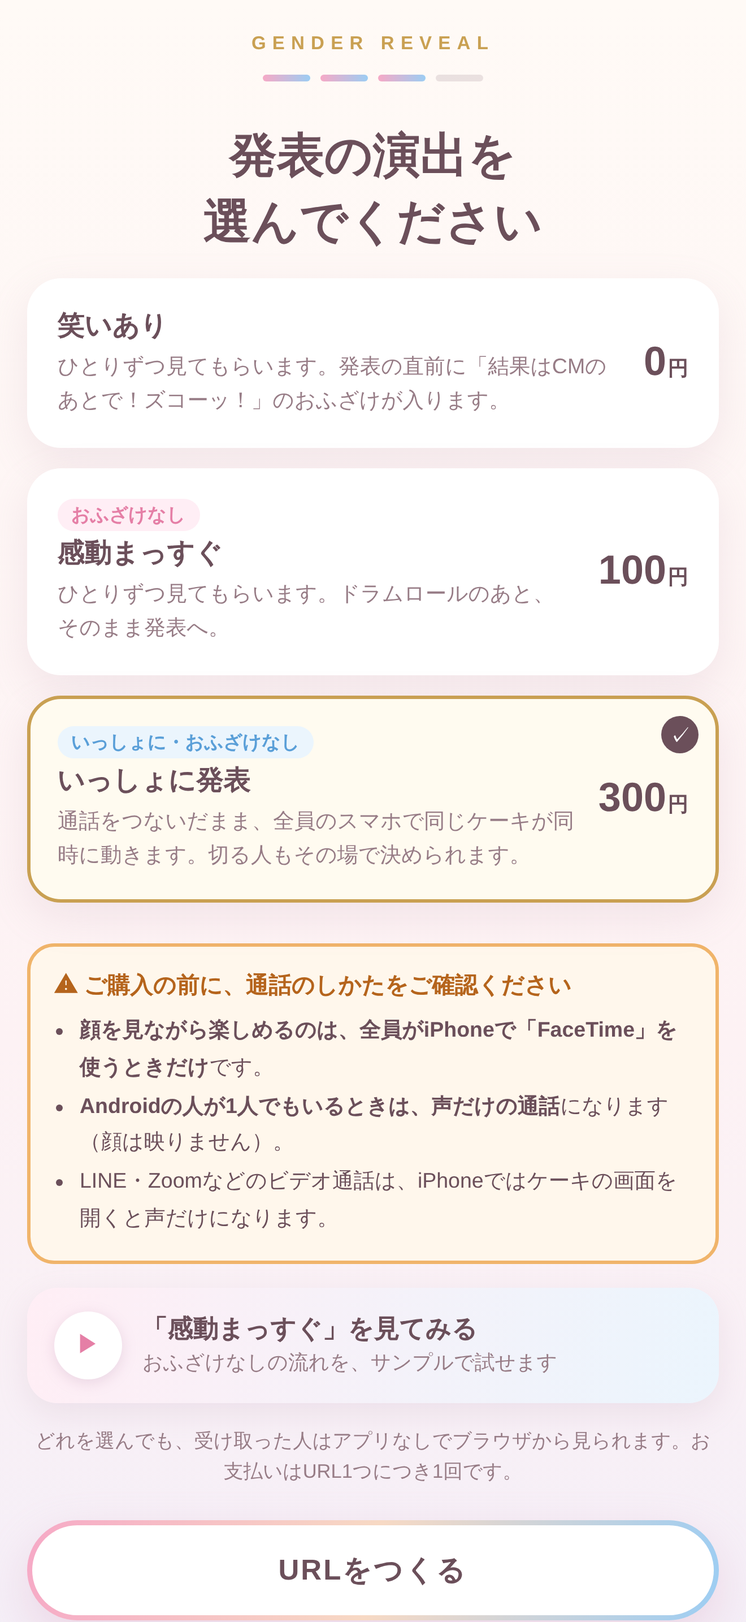
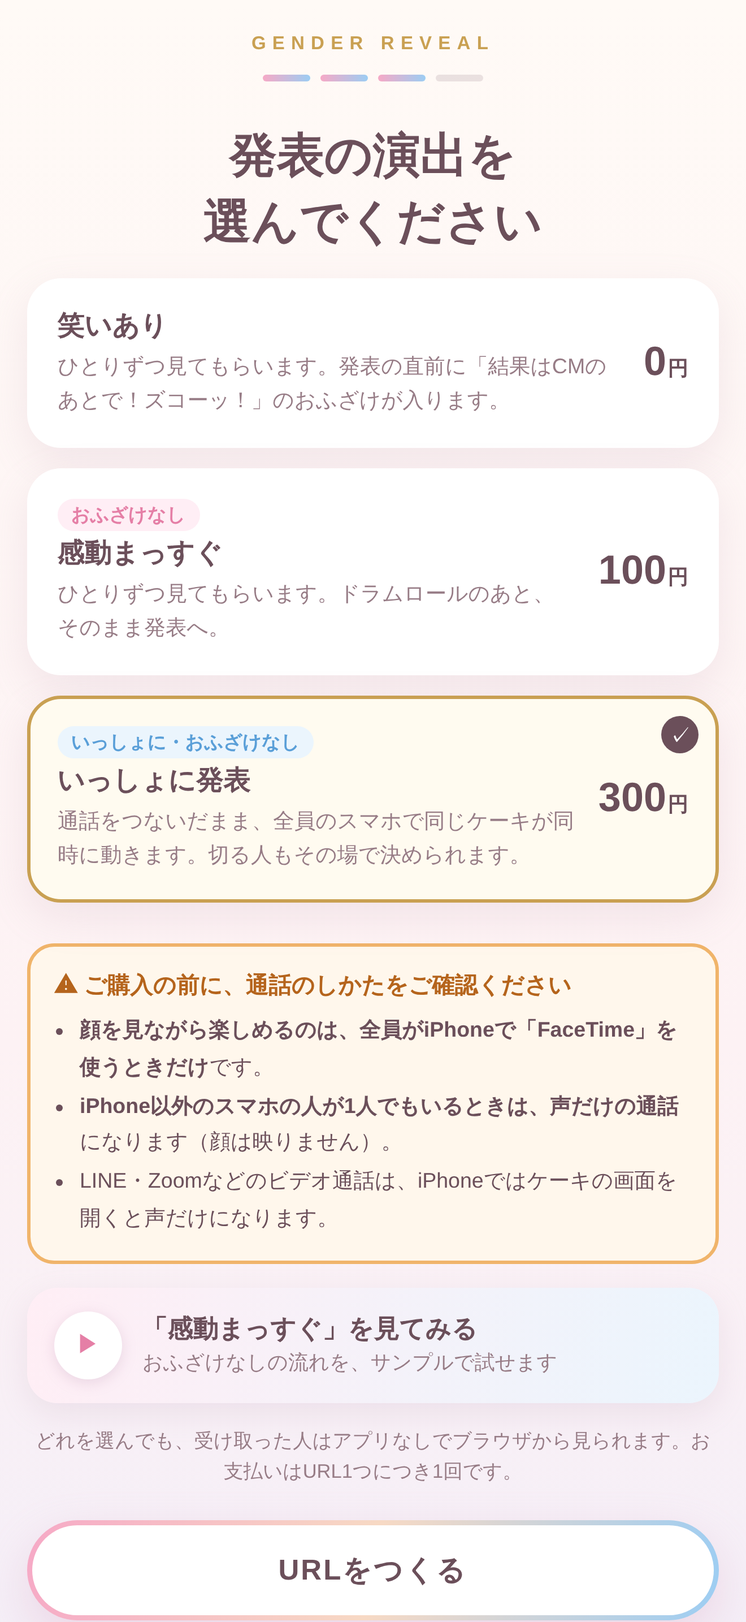
審査対応：アプリ内のAndroidの記述をiPhone以外のスマホに変更

diff --git a/site/r/index.html b/site/r/index.html
@@ -424,7 +424,7 @@ button:focus-visible,summary:focus-visible{outline:3px solid var(--gold-deep);ou
       <h1 class="intro-title" id="lbTitle" style="font-size:clamp(22px,6.4vw,30px)">いっしょに<br>発表の瞬間を楽しみましょう</h1>
       <p class="lead" id="lbTag">離れていても、同じ瞬間に。</p>
       <div id="lbJoin" style="display:flex;flex-direction:column;gap:12px">
-        <div class="lb-call" id="lbCall"><b>📞 通話はつながっていますか？</b><br>パパ・ママと通話をつないだまま、この画面を開いてください。<br><small>顔を見ながらできるのは、全員iPhoneでFaceTimeのときだけ。Androidの人がいるときは声だけの通話になります。</small> <button type="button" class="gd-link" data-guide>通話のしかたを見る</button></div>
+        <div class="lb-call" id="lbCall"><b>📞 通話はつながっていますか？</b><br>パパ・ママと通話をつないだまま、この画面を開いてください。<br><small>顔を見ながらできるのは、全員iPhoneでFaceTimeのときだけ。iPhone以外のスマホの人がいるときは声だけの通話になります。</small> <button type="button" class="gd-link" data-guide>通話のしかたを見る</button></div>
         <p class="lb-label">あなたの呼び名</p>
         <input id="lbName" class="lb-input" maxlength="12" placeholder="例：おばあちゃん" autocomplete="off">
         <p class="note">この名前は、みんなの画面に表示されます。会員登録は必要ありません。</p>
@@ -454,9 +454,9 @@ button:focus-visible,summary:focus-visible{outline:3px solid var(--gold-deep);ou
       <p class="eyebrow" style="align-self:center">GENDER REVEAL</p>
       <h2>通話をつないでから<br>はじめましょう</h2>
       <p class="gd-lead">顔を見ながら、みんなで同じ瞬間に「わぁ！」を。<br>まず、通話する人のスマホを選んでください。</p>
-      <div class="gd-tabs"><button type="button" data-mix="all" aria-pressed="true">みんなiPhone</button><button type="button" data-mix="mix" aria-pressed="false">Androidの人もいる</button></div><div class="gd-rec" data-c="all"><b>顔を見ながらできるのは FaceTime だけ</b>ケーキの画面を開いても、相手の顔は小さな窓に映り、自分の顔も相手に映ったままです。<em>⚠ LINEのビデオ通話は、iPhoneではケーキの画面にうつると顔が映らなくなり、声だけの通話になります。</em></div><div class="gd-rec" data-c="mix" hidden><b>iPhoneとAndroidは 声だけの通話になります</b>AndroidにはFaceTimeのアプリがないので、LINEなどの音声通話（スピーカーON）でつなぎます。顔は映りません。<em>⚠ iPhoneの人がケーキの画面を開くと、iPhoneの人のカメラは止まり、声だけになります。おたがいの顔は見えなくなりますが、声はつながったまま。「せーの！」で一緒に楽しめます。</em></div>
+      <div class="gd-tabs"><button type="button" data-mix="all" aria-pressed="true">みんなiPhone</button><button type="button" data-mix="mix" aria-pressed="false">iPhone以外の人もいる</button></div><div class="gd-rec" data-c="all"><b>顔を見ながらできるのは FaceTime だけ</b>ケーキの画面を開いても、相手の顔は小さな窓に映り、自分の顔も相手に映ったままです。<em>⚠ LINEのビデオ通話は、iPhoneではケーキの画面にうつると顔が映らなくなり、声だけの通話になります。</em></div><div class="gd-rec" data-c="mix" hidden><b>iPhone以外のスマホが混ざると 声だけの通話になります</b>FaceTimeはiPhone同士でしか使えないので、LINEなどの音声通話（スピーカーON）でつなぎます。顔は映りません。<em>⚠ iPhoneの人がケーキの画面を開くと、iPhoneの人のカメラは止まり、声だけになります。おたがいの顔は見えなくなりますが、声はつながったまま。「せーの！」で一緒に楽しめます。</em></div>
       <div class="gd-step"><span class="gd-n">1</span><div><b>先に、通話をつなぐ</b><small data-c="all">FaceTimeで、みんなとビデオ通話をつなぎます。グループFaceTimeなら何人でもつなげます。</small><small data-c="mix" hidden>LINEで、みんなと通話をつなぎます。スピーカーをONにしておくと、声がよく聞こえます。</small></div><svg viewBox="0 0 74 74" aria-hidden="true"><rect x="18" y="4" width="38" height="66" rx="8" fill="#2b2b33"/><rect x="21" y="9" width="32" height="56" rx="5" fill="#cfe3f5"/><circle cx="37" cy="27" r="7" fill="#f5dcc8"/><path d="M25 46c2-8 22-8 24 0" fill="#7a8fae"/><circle cx="31" cy="57" r="4" fill="#ff5a5a"/><circle cx="43" cy="57" r="4" fill="#06c755"/></svg></div>
-      <div class="gd-step"><span class="gd-n">2</span><div><b>ホーム画面にもどる</b><small data-c="all">画面の下から上へスワイプします。通話はそのまま続き、相手の顔が小さな窓で表示されます。</small><small data-c="mix" hidden><b class="gd-who">iPhoneの人</b>画面の下から上へスワイプ。通話は声だけで続きます。<b class="gd-who">Androidの人</b>ホームボタン（または下から上へスワイプ）でホーム画面へ。通話は小さな窓で続きます（iPhoneの人の顔は映りません）。</small></div><svg viewBox="0 0 74 74" aria-hidden="true"><rect x="18" y="4" width="38" height="66" rx="8" fill="#2b2b33"/><rect x="21" y="9" width="32" height="56" rx="5" fill="#f4eef6"/><rect x="40" y="13" width="11" height="15" rx="3" fill="#cfe3f5" stroke="#fff" stroke-width="1.5"/><path d="M37 60V40" stroke="#e57fa6" stroke-width="3.5" stroke-linecap="round"/><path d="M31 46l6-7 6 7" fill="none" stroke="#e57fa6" stroke-width="3.5" stroke-linecap="round" stroke-linejoin="round"/></svg></div>
+      <div class="gd-step"><span class="gd-n">2</span><div><b>ホーム画面にもどる</b><small data-c="all">画面の下から上へスワイプします。通話はそのまま続き、相手の顔が小さな窓で表示されます。</small><small data-c="mix" hidden><b class="gd-who">iPhoneの人</b>画面の下から上へスワイプ。通話は声だけで続きます。<b class="gd-who">iPhone以外の人</b>ホームボタン（または下から上へスワイプ）でホーム画面へ。通話は小さな窓で続きます（iPhoneの人の顔は映りません）。</small></div><svg viewBox="0 0 74 74" aria-hidden="true"><rect x="18" y="4" width="38" height="66" rx="8" fill="#2b2b33"/><rect x="21" y="9" width="32" height="56" rx="5" fill="#f4eef6"/><rect x="40" y="13" width="11" height="15" rx="3" fill="#cfe3f5" stroke="#fff" stroke-width="1.5"/><path d="M37 60V40" stroke="#e57fa6" stroke-width="3.5" stroke-linecap="round"/><path d="M31 46l6-7 6 7" fill="none" stroke="#e57fa6" stroke-width="3.5" stroke-linecap="round" stroke-linejoin="round"/></svg></div>
       <div class="gd-step"><span class="gd-n">3</span><div><b>届いたURLを開く</b><small>家族から届いたURLを開くと、ケーキの画面が表示されます。</small></div><svg viewBox="0 0 74 74" aria-hidden="true"><rect x="18" y="4" width="38" height="66" rx="8" fill="#2b2b33"/><rect x="21" y="9" width="32" height="56" rx="5" fill="#fdf2f4"/><ellipse cx="37" cy="50" rx="11" ry="3.5" fill="#f3e3c4"/><rect x="28" y="38" width="18" height="12" rx="2" fill="#fff" stroke="#efd9e2"/><rect x="31" y="31" width="12" height="8" rx="2" fill="#fff" stroke="#efd9e2"/><rect x="40" y="12" width="11" height="15" rx="3" fill="#cfe3f5" stroke="#fff" stroke-width="1.5"/><circle cx="45.5" cy="18" r="2.5" fill="#f5dcc8"/></svg></div>
       <div class="gd-tip" data-c="all"><b>💡 小さな窓にならないときは</b>「くわしい設定」でFaceTimeの設定を確認してください。音声通話にしてスピーカーをONにするだけでも、声を聞きながら一緒に楽しめます。</div><div class="gd-tip" data-c="mix" hidden><b>💡 顔も見ながら楽しみたいときは</b>iPhoneの人は、通話をiPadやパソコンなど別の端末でつなぎ、ケーキはスマホで開くと、顔を見ながら一緒に楽しめます。</div>
       <p class="gd-lead">うまくいかないとき → <button type="button" class="gd-link" id="gdMore">くわしい設定を見る</button></p>
@@ -464,7 +464,7 @@ button:focus-visible,summary:focus-visible{outline:3px solid var(--gold-deep);ou
     </div>
     <div class="gd-in" id="gdDetail" hidden>
       <p class="eyebrow" style="align-self:center">GENDER REVEAL</p>
-      <h2>通話の<br>くわしい設定</h2><div class="gd-tabs"><button type="button" data-mix="all" aria-pressed="true">みんなiPhone</button><button type="button" data-mix="mix" aria-pressed="false">Androidの人もいる</button></div><div class="gd-step wide" data-c="all"><div><b>FaceTimeを小さな窓にする</b><small>iPhoneの「設定」→「一般」→「ピクチャ・イン・ピクチャ」→「自動的に開始」をONにします。通話中にホーム画面へ戻ると、通話画面が小さな窓で表示され、自分の顔も相手に映ったままです。</small></div></div><div class="gd-step wide" data-c="all"><div><b>みんなでFaceTimeをつなぐ</b><small>FaceTimeアプリで「新規FaceTime」を押し、家族を追加して「FaceTime」（ビデオ）で発信します。</small></div></div><div class="gd-step wide" data-c="all"><div><b>LINEを使う場合</b><small>iPhoneのLINEは、ほかの画面にうつると顔が映らず、声だけの通話になります。LINEの「縮小」ボタンの小さな窓は、LINEの中でしか表示されません。顔を見ながら楽しみたいときは、FaceTimeを使ってください。</small></div></div><div class="gd-step wide" data-c="mix" hidden><div><b>LINEでみんなとつなぐ</b><small>家族のグループトークを開き、右上の電話マークから「音声通話」または「ビデオ通話」を始めます。</small></div></div><div class="gd-step wide" data-c="mix" hidden><div><b>Androidの人：小さな窓の設定</b><small>「設定」→「アプリ」→「LINE」→「ピクチャー イン ピクチャー」を許可にします（機種によって名前が少しちがいます）。ホーム画面に戻ると、通話が小さな窓で表示されます。</small></div></div><div class="gd-step wide" data-c="mix" hidden><div><b>iPhoneの人：声だけになります</b><small>ケーキの画面を開くと、iPhoneのLINEはカメラが止まり、声だけの通話になります。これはiPhoneのLINEのしくみで、設定では変えられません。顔も見たいときは、通話を別の端末（iPadやパソコンなど）でつないでください。</small></div></div><div class="gd-step wide"><div><b>音が小さいとき</b><small>通話をスピーカーにして、音量を上げてください。iPhoneはマナーモードもOFFにしてください。</small></div></div><div class="gd-tip"><b>💡 それでもうまくいかないとき</b>家族のスマホは通話用、自分のスマホはケーキ用にして、2台で楽しむ方法もおすすめです。</div>
+      <h2>通話の<br>くわしい設定</h2><div class="gd-tabs"><button type="button" data-mix="all" aria-pressed="true">みんなiPhone</button><button type="button" data-mix="mix" aria-pressed="false">iPhone以外の人もいる</button></div><div class="gd-step wide" data-c="all"><div><b>FaceTimeを小さな窓にする</b><small>iPhoneの「設定」→「一般」→「ピクチャ・イン・ピクチャ」→「自動的に開始」をONにします。通話中にホーム画面へ戻ると、通話画面が小さな窓で表示され、自分の顔も相手に映ったままです。</small></div></div><div class="gd-step wide" data-c="all"><div><b>みんなでFaceTimeをつなぐ</b><small>FaceTimeアプリで「新規FaceTime」を押し、家族を追加して「FaceTime」（ビデオ）で発信します。</small></div></div><div class="gd-step wide" data-c="all"><div><b>LINEを使う場合</b><small>iPhoneのLINEは、ほかの画面にうつると顔が映らず、声だけの通話になります。LINEの「縮小」ボタンの小さな窓は、LINEの中でしか表示されません。顔を見ながら楽しみたいときは、FaceTimeを使ってください。</small></div></div><div class="gd-step wide" data-c="mix" hidden><div><b>LINEでみんなとつなぐ</b><small>家族のグループトークを開き、右上の電話マークから「音声通話」または「ビデオ通話」を始めます。</small></div></div><div class="gd-step wide" data-c="mix" hidden><div><b>iPhone以外のスマホの人：小さな窓の設定</b><small>「設定」→「アプリ」→「LINE」→「ピクチャー イン ピクチャー」を許可にします（機種によって名前が少しちがいます）。ホーム画面に戻ると、通話が小さな窓で表示されます。</small></div></div><div class="gd-step wide" data-c="mix" hidden><div><b>iPhoneの人：声だけになります</b><small>ケーキの画面を開くと、iPhoneのLINEはカメラが止まり、声だけの通話になります。これはiPhoneのLINEのしくみで、設定では変えられません。顔も見たいときは、通話を別の端末（iPadやパソコンなど）でつないでください。</small></div></div><div class="gd-step wide"><div><b>音が小さいとき</b><small>通話をスピーカーにして、音量を上げてください。iPhoneはマナーモードもOFFにしてください。</small></div></div><div class="gd-tip"><b>💡 それでもうまくいかないとき</b>家族のスマホは通話用、自分のスマホはケーキ用にして、2台で楽しむ方法もおすすめです。</div>
       <button type="button" class="gd-close" data-gdback>もどる</button>
     </div>
   </div>
@@ -2209,7 +2209,7 @@ const TG = (() => {
   }
   if (on && TOKEN) {
     $('#intro').hidden = true; $('#lobby').hidden = false;
-    if (st.host) { $('#lbTitle').innerHTML = 'もうすぐ、<br>みんなで発表です 🎂'; $('#lbName').value = 'パパ・ママ'; $('#lbCall').innerHTML = '<b>📞 通話はつながっていますか？</b><br>家族や友だちと通話をつないでから、参加してください。<br><small>顔を見ながらできるのは、全員iPhoneでFaceTimeのときだけ。Androidの人がいるときは声だけの通話になります。</small> <button type="button" class="gd-link" data-guide>通話のしかたを見る</button>'; $('#lbCall [data-guide]').addEventListener('click', () => { $('#gdMain').hidden = false; $('#gdDetail').hidden = true; $('#callGuide').hidden = false; }); }
+    if (st.host) { $('#lbTitle').innerHTML = 'もうすぐ、<br>みんなで発表です 🎂'; $('#lbName').value = 'パパ・ママ'; $('#lbCall').innerHTML = '<b>📞 通話はつながっていますか？</b><br>家族や友だちと通話をつないでから、参加してください。<br><small>顔を見ながらできるのは、全員iPhoneでFaceTimeのときだけ。iPhone以外のスマホの人がいるときは声だけの通話になります。</small> <button type="button" class="gd-link" data-guide>通話のしかたを見る</button>'; $('#lbCall [data-guide]').addEventListener('click', () => { $('#gdMain').hidden = false; $('#gdDetail').hidden = true; $('#callGuide').hidden = false; }); }
     $('#lbJoinBtn').addEventListener('click', join);
     $('#lbName').addEventListener('keydown', (e) => { if (e.key === 'Enter') join(); });
     $('#lbStart').addEventListener('click', () => { if (st.started) return; send({ t: 'start', cfg: st.cfg }); begin(st.cfg); });
@@ -2256,7 +2256,7 @@ const TG = (() => {
     g.querySelectorAll('[data-mix]').forEach((b) => b.setAttribute('aria-pressed', String(b.dataset.mix === m)));
     g.querySelectorAll('[data-c]').forEach((el) => { el.hidden = el.dataset.c !== m; });
   };
-  // パパ・ママはiPhone（アプリはiPhone用）なので、Androidで開いた人は「Androidの人もいる」
+  // パパ・ママはiPhone（アプリはiPhone用）なので、Androidで開いた人は「iPhone以外の人もいる」
   setMix(isAndroid ? 'mix' : 'all');
   g.querySelectorAll('[data-mix]').forEach((b) => b.addEventListener('click', () => setMix(b.dataset.mix)));
   document.querySelectorAll('[data-guide]').forEach((b) => b.addEventListener('click', () => { $('#gdMain').hidden = false; $('#gdDetail').hidden = true; g.hidden = false; g.scrollTop = 0; }));

diff --git a/index.html b/index.html
@@ -62,7 +62,7 @@
     </div>
     <div class="tg-warn" id="tgNotice" hidden>
       <b>⚠ ご購入の前に、通話のしかたをご確認ください</b>
-      <ul><li><b>顔を見ながら楽しめるのは、全員がiPhoneで「FaceTime」を使うときだけ</b>です。</li><li><b>Androidの人が1人でもいるときは、声だけの通話</b>になります（顔は映りません）。</li><li>LINE・Zoomなどのビデオ通話は、iPhoneではケーキの画面を開くと声だけになります。</li></ul>
+      <ul><li><b>顔を見ながら楽しめるのは、全員がiPhoneで「FaceTime」を使うときだけ</b>です。</li><li><b>iPhone以外のスマホの人が1人でもいるときは、声だけの通話</b>になります（顔は映りません）。</li><li>LINE・Zoomなどのビデオ通話は、iPhoneではケーキの画面を開くと声だけになります。</li></ul>
     </div>
     <a class="preview" id="samplePaid" href="#" target="_blank" rel="noopener">
       <span class="pv-ico" aria-hidden="true">▶</span>
@@ -92,7 +92,7 @@
       <p class="tg-hero">もうすぐ、みんなで発表です 🎂</p>
       <p class="tg-sub">離れていても、同じ瞬間に。</p>
       <ol class="tg-steps">
-        <li><b>家族や友だちと通話をつなぐ</b><span>先に通話を始めます。顔を見ながらできるのは全員iPhoneのFaceTimeのとき。Androidの人がいるときは声だけの通話です。</span><button type="button" class="tg-link" id="tgGuide">通話のしかたを見る</button></li>
+        <li><b>家族や友だちと通話をつなぐ</b><span>先に通話を始めます。顔を見ながらできるのは全員iPhoneのFaceTimeのとき。iPhone以外のスマホの人がいるときは声だけの通話です。</span><button type="button" class="tg-link" id="tgGuide">通話のしかたを見る</button></li>
         <li><b>招待URLを送る</b><span>通話中に、LINEやメッセージでURLを送ってください。</span><button type="button" class="btn tg-btn" id="tgInvite">招待URLを送る</button></li>
         <li><b>ケーキの画面を開く</b><span>みんながそろったら、あなたのケーキ画面を開きましょう。「はじめる」を押すと、全員の画面で同時に始まります。</span><button type="button" class="btn tg-btn" id="tgHost">ケーキの画面を開く</button></li>
       </ol>
@@ -113,7 +113,7 @@
     <p class="gd-eb">GENDER REVEAL</p>
     <h2>通話をつないでから<br>はじめましょう</h2>
     <p class="gd-lead">顔を見ながら、みんなで同じ瞬間に「わぁ！」を。<br>まず、通話する人のスマホを選んでください。</p>
-    <div class="gd-tabs"><button type="button" data-mix="all" aria-pressed="true">みんなiPhone</button><button type="button" data-mix="mix" aria-pressed="false">Androidの人もいる</button></div><div class="gd-rec" data-c="all"><b>顔を見ながらできるのは FaceTime だけ</b>ケーキの画面を開いても、相手の顔は小さな窓に映り、自分の顔も相手に映ったままです。<em>⚠ LINEのビデオ通話は、iPhoneではケーキの画面にうつると顔が映らなくなり、声だけの通話になります。</em></div><div class="gd-rec" data-c="mix" hidden><b>iPhoneとAndroidは 声だけの通話になります</b>AndroidにはFaceTimeのアプリがないので、LINEなどの音声通話（スピーカーON）でつなぎます。顔は映りません。<em>⚠ iPhoneの人がケーキの画面を開くと、iPhoneの人のカメラは止まり、声だけになります。おたがいの顔は見えなくなりますが、声はつながったまま。「せーの！」で一緒に楽しめます。</em></div>
+    <div class="gd-tabs"><button type="button" data-mix="all" aria-pressed="true">みんなiPhone</button><button type="button" data-mix="mix" aria-pressed="false">iPhone以外の人もいる</button></div><div class="gd-rec" data-c="all"><b>顔を見ながらできるのは FaceTime だけ</b>ケーキの画面を開いても、相手の顔は小さな窓に映り、自分の顔も相手に映ったままです。<em>⚠ LINEのビデオ通話は、iPhoneではケーキの画面にうつると顔が映らなくなり、声だけの通話になります。</em></div><div class="gd-rec" data-c="mix" hidden><b>iPhone以外のスマホが混ざると 声だけの通話になります</b>FaceTimeはiPhone同士でしか使えないので、LINEなどの音声通話（スピーカーON）でつなぎます。顔は映りません。<em>⚠ iPhoneの人がケーキの画面を開くと、iPhoneの人のカメラは止まり、声だけになります。おたがいの顔は見えなくなりますが、声はつながったまま。「せーの！」で一緒に楽しめます。</em></div>
     <div class="gd-step"><span class="gd-n">1</span><div><b>先に、通話をつなぐ</b><small data-c="all">FaceTimeで、みんなとビデオ通話をつなぎます。グループFaceTimeなら何人でもつなげます。</small><small data-c="mix" hidden>LINEで、みんなと通話をつなぎます。スピーカーをONにしておくと、声がよく聞こえます。</small></div></div>
     <div class="gd-step"><span class="gd-n">2</span><div><b>このアプリにもどる</b><small data-c="all">画面の下から上へスワイプして、このアプリにもどります。通話はそのまま続き、相手の顔が小さな窓で表示されます。</small><small data-c="mix" hidden>画面の下から上へスワイプして、このアプリにもどります。iPhoneのLINEは、ここで声だけの通話になります（顔は映りません）。</small></div></div>
     <div class="gd-step"><span class="gd-n">3</span><div><b>招待URLを送って、ケーキの画面を開く</b><small>みんながそろったら「はじめる」を押します。</small></div></div>
@@ -123,7 +123,7 @@
   </div>
   <div class="gd-in" id="gdDetail" hidden>
     <p class="gd-eb">GENDER REVEAL</p>
-    <h2>通話の<br>くわしい設定</h2><div class="gd-tabs"><button type="button" data-mix="all" aria-pressed="true">みんなiPhone</button><button type="button" data-mix="mix" aria-pressed="false">Androidの人もいる</button></div><div class="gd-step wide" data-c="all"><div><b>FaceTimeを小さな窓にする</b><small>iPhoneの「設定」→「一般」→「ピクチャ・イン・ピクチャ」→「自動的に開始」をONにします。通話中にホーム画面へ戻ると、通話画面が小さな窓で表示され、自分の顔も相手に映ったままです。</small></div></div><div class="gd-step wide" data-c="all"><div><b>みんなでFaceTimeをつなぐ</b><small>FaceTimeアプリで「新規FaceTime」を押し、家族を追加して「FaceTime」（ビデオ）で発信します。</small></div></div><div class="gd-step wide" data-c="all"><div><b>LINEを使う場合</b><small>iPhoneのLINEは、ほかの画面にうつると顔が映らず、声だけの通話になります。LINEの「縮小」ボタンの小さな窓は、LINEの中でしか表示されません。顔を見ながら楽しみたいときは、FaceTimeを使ってください。</small></div></div><div class="gd-step wide" data-c="mix" hidden><div><b>LINEでみんなとつなぐ</b><small>家族のグループトークを開き、右上の電話マークから「音声通話」または「ビデオ通話」を始めます。</small></div></div><div class="gd-step wide" data-c="mix" hidden><div><b>Androidの人：小さな窓の設定</b><small>「設定」→「アプリ」→「LINE」→「ピクチャー イン ピクチャー」を許可にします（機種によって名前が少しちがいます）。ホーム画面に戻ると、通話が小さな窓で表示されます。</small></div></div><div class="gd-step wide" data-c="mix" hidden><div><b>iPhoneの人：声だけになります</b><small>ケーキの画面を開くと、iPhoneのLINEはカメラが止まり、声だけの通話になります。これはiPhoneのLINEのしくみで、設定では変えられません。顔も見たいときは、通話を別の端末（iPadやパソコンなど）でつないでください。</small></div></div><div class="gd-step wide"><div><b>音が小さいとき</b><small>通話をスピーカーにして、音量を上げてください。iPhoneはマナーモードもOFFにしてください。</small></div></div><div class="gd-tip"><b>💡 それでもうまくいかないとき</b>家族のスマホは通話用、自分のスマホはケーキ用にして、2台で楽しむ方法もおすすめです。</div>
+    <h2>通話の<br>くわしい設定</h2><div class="gd-tabs"><button type="button" data-mix="all" aria-pressed="true">みんなiPhone</button><button type="button" data-mix="mix" aria-pressed="false">iPhone以外の人もいる</button></div><div class="gd-step wide" data-c="all"><div><b>FaceTimeを小さな窓にする</b><small>iPhoneの「設定」→「一般」→「ピクチャ・イン・ピクチャ」→「自動的に開始」をONにします。通話中にホーム画面へ戻ると、通話画面が小さな窓で表示され、自分の顔も相手に映ったままです。</small></div></div><div class="gd-step wide" data-c="all"><div><b>みんなでFaceTimeをつなぐ</b><small>FaceTimeアプリで「新規FaceTime」を押し、家族を追加して「FaceTime」（ビデオ）で発信します。</small></div></div><div class="gd-step wide" data-c="all"><div><b>LINEを使う場合</b><small>iPhoneのLINEは、ほかの画面にうつると顔が映らず、声だけの通話になります。LINEの「縮小」ボタンの小さな窓は、LINEの中でしか表示されません。顔を見ながら楽しみたいときは、FaceTimeを使ってください。</small></div></div><div class="gd-step wide" data-c="mix" hidden><div><b>LINEでみんなとつなぐ</b><small>家族のグループトークを開き、右上の電話マークから「音声通話」または「ビデオ通話」を始めます。</small></div></div><div class="gd-step wide" data-c="mix" hidden><div><b>iPhone以外のスマホの人：小さな窓の設定</b><small>「設定」→「アプリ」→「LINE」→「ピクチャー イン ピクチャー」を許可にします（機種によって名前が少しちがいます）。ホーム画面に戻ると、通話が小さな窓で表示されます。</small></div></div><div class="gd-step wide" data-c="mix" hidden><div><b>iPhoneの人：声だけになります</b><small>ケーキの画面を開くと、iPhoneのLINEはカメラが止まり、声だけの通話になります。これはiPhoneのLINEのしくみで、設定では変えられません。顔も見たいときは、通話を別の端末（iPadやパソコンなど）でつないでください。</small></div></div><div class="gd-step wide"><div><b>音が小さいとき</b><small>通話をスピーカーにして、音量を上げてください。iPhoneはマナーモードもOFFにしてください。</small></div></div><div class="gd-tip"><b>💡 それでもうまくいかないとき</b>家族のスマホは通話用、自分のスマホはケーキ用にして、2台で楽しむ方法もおすすめです。</div>
     <button type="button" class="btn tg-btn" data-gdback>もどる</button>
   </div>
 </div>
@@ -135,7 +135,7 @@
     <h2>ご購入の前に<br>ご確認ください</h2>
     <p class="gd-lead">「いっしょに発表」は、家族と通話をつないだまま楽しむプランです。<br>スマホの組み合わせで、できることが変わります。</p>
     <div class="cf-case ok"><span class="cf-ico">📹</span><div><b>全員 iPhone → 顔を見ながらできます</b><small>FaceTimeのビデオ通話を使ってください。顔を見ながらできるのは、FaceTimeだけです。</small></div></div>
-    <div class="cf-case voice"><span class="cf-ico">🔊</span><div><b>iPhone と Android → 声だけになります</b><small>Androidの人が1人でもいるときは、LINEなどの音声通話（声だけ）で楽しみます。顔は映りません。</small></div></div>
+    <div class="cf-case voice"><span class="cf-ico">🔊</span><div><b>iPhone以外のスマホが混ざる → 声だけになります</b><small>iPhone以外のスマホの人が1人でもいるときは、LINEなどの音声通話（声だけ）で楽しみます。顔は映りません。</small></div></div>
     <div class="gd-tip"><b>💡 iPhone同士でも、LINEやZoomのビデオ通話は</b>ケーキの画面を開くと声だけになります。顔を見ながら楽しみたいときは、FaceTimeを使ってください。</div>
     <p class="gd-lead">ケーキはどの組み合わせでも、全員の画面で同時に動きます。</p>
     <button type="button" class="btn tg-btn" id="cfBuy">わかりました。購入へ進む</button>

diff --git a/site/articles/faq.html b/site/articles/faq.html
@@ -4,7 +4,7 @@
 <meta charset="utf-8">
 <meta name="viewport" content="width=device-width,initial-scale=1">
 <title>ジェンダーリビール ケーキ よくある質問｜ジェンダーリビール ケーキ</title>
-<meta name="description" content="iPhoneアプリ「ジェンダーリビール ケーキ」の使い方、無料版と有料版の違い、音が出ない・URLが開けないときの解決方法をまとめました。">
+<meta name="description" content="iPhoneアプリ「ジェンダーリビール ケーキ」の使い方、3つの演出の違い、音が出ない・URLが開けないときの解決方法をまとめました。">
 <script async src="https://pagead2.googlesyndication.com/pagead/js/adsbygoogle.js?client=ca-pub-3569112084446052" crossorigin="anonymous"></script>
 <link rel="preconnect" href="https://fonts.googleapis.com">
 <link rel="preconnect" href="https://fonts.gstatic.com" crossorigin>
@@ -40,10 +40,12 @@
 
   <h2>演出と料金について</h2>
   <dl class="faq">
-    <dt>無料版と有料版（100円）の違いは？</dt>
-    <dd>無料版では、発表の直前に「結果はCMのあとで！」というテレビ番組風のおふざけが入ります。有料版はおふざけなしで、ドラムロールのあと、そのまま発表へ進みます。</dd>
-    <dt>有料版の支払いは、URLごとに必要ですか？</dt>
-    <dd>はい。1回のお支払いで、有料版のURLを1つ作れます。同じ性別のまま「戻る」で選び直した場合は、二重に支払われることはありません。</dd>
+    <dt>3つの演出の違いは？</dt>
+    <dd>「笑いあり」（無料）は、発表の直前に「結果はCMのあとで！」というテレビ番組風のおふざけが入ります。「感動まっすぐ」（100円）はおふざけなしで、ドラムロールのあと、そのまま発表へ進みます。「いっしょに発表」（300円）は、通話をつないだまま、全員のスマホで同じケーキが同時に動きます（おふざけなし）。</dd>
+    <dt>「いっしょに発表」で顔を見ながら楽しめますか？</dt>
+    <dd>顔を見ながら楽しめるのは、全員がiPhoneでFaceTimeのビデオ通話を使う場合のみです。iPhone以外のスマホの方が参加する場合や、LINE・Zoomなどのビデオ通話を使う場合は、ケーキの画面を開くと声だけの通話になります。ケーキはどの組み合わせでも、全員の画面で同時に動きます。</dd>
+    <dt>有料の演出の支払いは、URLごとに必要ですか？</dt>
+    <dd>はい。1回のお支払いで、有料の演出のURLを1つ作れます。同じ性別のまま「戻る」で選び直した場合は、二重に支払われることはありません。</dd>
     <dt>支払ったのにURLができませんでした</dt>
     <dd>電波のよい場所で、もう一度「URLをつくる」を押してください。お支払いは済んでいるので、追加の料金はかかりません。それでも解決しないときは、お問い合わせからご連絡ください。</dd>
   </dl>

diff --git a/site/index.html b/site/index.html
@@ -41,7 +41,12 @@
   <p>音が出るので、iPhoneはマナーモードを切ってお楽しみください。</p>
 
   <h2 id="app">iPhoneアプリについて</h2>
-  <p>ジェンダーリビールを作るのは、iPhoneアプリから行います。作成は無料です。無料版には「結果はCMのあとで！」というテレビ番組風のおふざけが入ります。おふざけなしで、まっすぐ発表したい場合は、作成時に100円の有料版を選べます。</p>
+  <p>ジェンダーリビールを作るのは、iPhoneアプリから行います。作成時に、次の3つの演出から選べます。</p>
+  <ul>
+    <li><b>笑いあり（無料）</b>：発表の直前に「結果はCMのあとで！」というテレビ番組風のおふざけが入ります。</li>
+    <li><b>感動まっすぐ（100円）</b>：おふざけなし。ドラムロールのあと、そのまま発表します。</li>
+    <li><b>いっしょに発表（300円）</b>：通話をつないだまま、全員のスマホで同じケーキが同時に動きます。※顔を見ながら楽しめるのは、全員がiPhoneでFaceTimeを使う場合のみです。iPhone以外のスマホの方が参加する場合は、音声通話（声だけ）になります。</li>
+  </ul>
 
   <h2 id="faq">よくある質問</h2>
   <dl class="faq">
@@ -51,8 +56,8 @@
     <dd>URLには性別が分かる文字は入っていません。ケーキを切って開くまで、結果は分かりません。</dd>
     <dt>赤ちゃんの情報や名前を登録しますか？</dt>
     <dd>登録はありません。選ぶのは性別だけで、個人を特定できる情報はお預かりしません。</dd>
-    <dt>無料版と有料版の違いは？</dt>
-    <dd>無料版では、発表の直前に「結果はCMのあとで！」のおふざけが入ります。有料版（100円）はおふざけなしで、ドラムロールのあとそのまま発表します。</dd>
+    <dt>無料と有料の違いは？</dt>
+    <dd>無料の「笑いあり」は、発表の直前に「結果はCMのあとで！」のおふざけが入ります。「感動まっすぐ」（100円）はおふざけなしで、そのまま発表します。「いっしょに発表」（300円）は、離れた家族と同じ瞬間に発表できます。</dd>
   </dl>
   <p><a href="/articles/faq.html">よくある質問をもっと見る</a></p>
 

diff --git a/site/articles/far-family.html b/site/articles/far-family.html
@@ -35,6 +35,7 @@
     <li>結果が見える位置（ケーキの断面など）をカメラに向ける</li>
   </ul>
   <p>複数の家族をつなぐ場合は、グループ通話の人数の上限も確かめておくと安心です。</p>
+  <p>アプリ「ジェンダーリビール ケーキ」の「いっしょに発表」なら、通話をつないだまま、家族それぞれのスマホで同じケーキが同時に動きます。最後のひと切りをおばあちゃんにお願いする、といった楽しみ方もできます。※顔を見ながら楽しめるのは、全員がiPhoneでFaceTimeを使う場合のみです。iPhone以外のスマホの方が参加する場合は、音声通話（声だけ）になります。</p>
 
   <h2>方法2：同じものを郵送して、同時に開けてもらう</h2>
   <p>スクラッチカードや、中に色つきの紙吹雪が入った小さな箱を、遠くの家族に郵送しておく方法です。日時を決めて「せーの」で同時に開けてもらえば、離れていても一緒に驚けます。</p>

diff --git a/src/main.js b/src/main.js
@@ -211,7 +211,7 @@ $('#tgGuide').onclick = () => { $('#gdMain').hidden = false; $('#gdDetail').hidd
 $('#gdMore').onclick = () => { $('#gdMain').hidden = true; $('#gdDetail').hidden = false; $('#guide').scrollTop = 0; };
 document.querySelector('[data-gdback]').onclick = () => { $('#gdMain').hidden = false; $('#gdDetail').hidden = true; };
 document.querySelector('[data-gdclose]').onclick = () => { $('#guide').hidden = true; };
-// みんなiPhone／Androidの人もいる の切り替え
+// みんなiPhone／iPhone以外の人もいる の切り替え
 const setMix = (m) => {
   document.querySelectorAll('#guide [data-mix]').forEach((b) => b.setAttribute('aria-pressed', String(b.dataset.mix === m)));
   document.querySelectorAll('#guide [data-c]').forEach((el) => { el.hidden = el.dataset.c !== m; });
